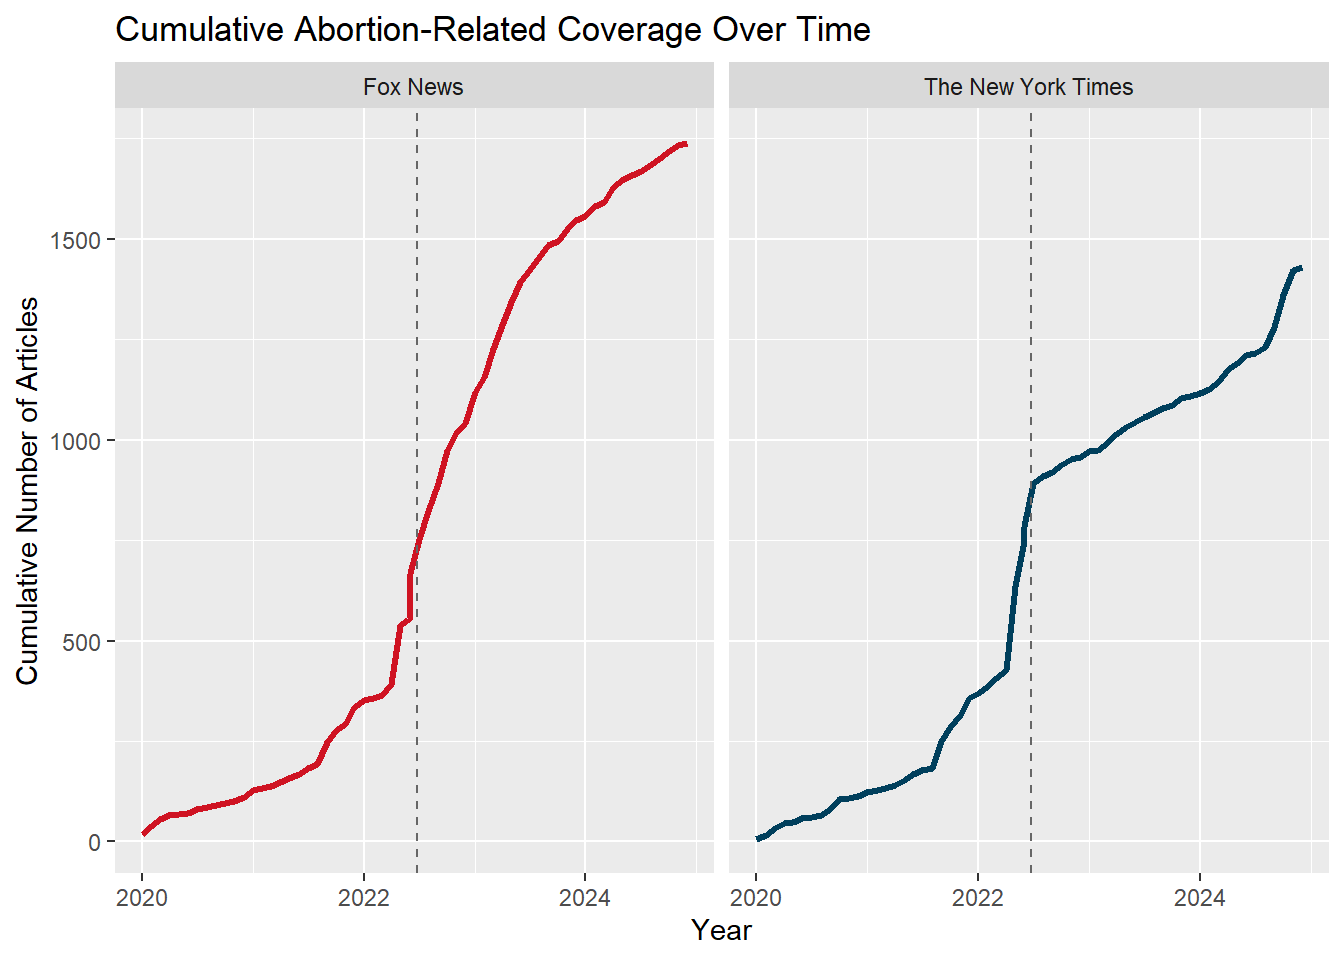
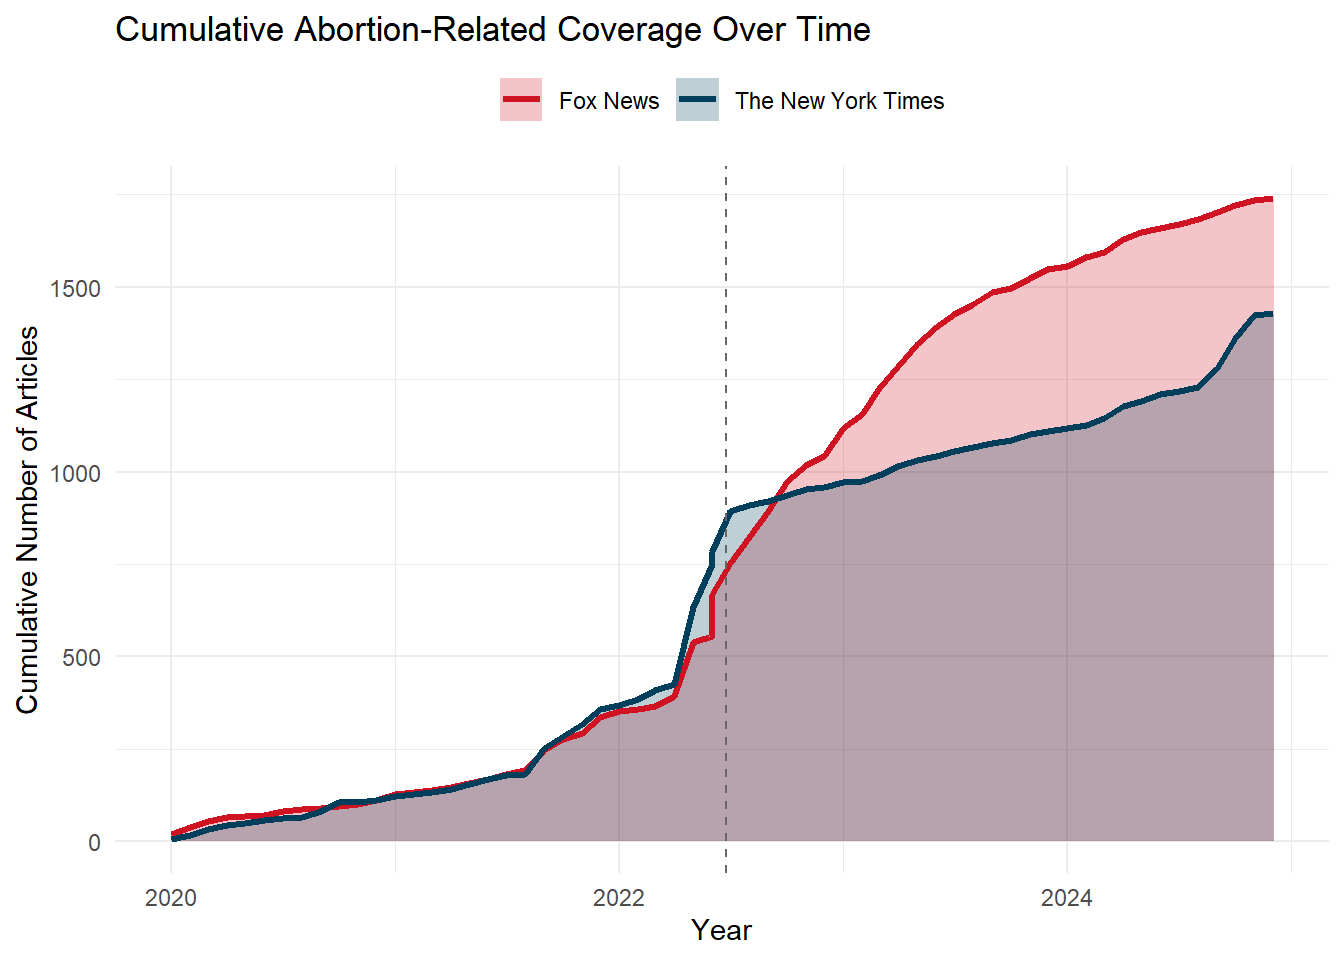
update graph colors + add few narratives

diff --git a/docs/quarto/index.html b/docs/quarto/index.html
@@ -124,7 +124,11 @@ ul.task-list li input[type="checkbox"] {
   <ul>
   <li><a href="#introduction" id="toc-introduction" class="nav-link active" data-scroll-target="#introduction">Introduction</a></li>
   <li><a href="#a-first-look-at-the-coverage" id="toc-a-first-look-at-the-coverage" class="nav-link" data-scroll-target="#a-first-look-at-the-coverage">A First Look at the Coverage</a></li>
-  <li><a href="#a-calendar-of-changing-narratives." id="toc-a-calendar-of-changing-narratives." class="nav-link" data-scroll-target="#a-calendar-of-changing-narratives.">A Calendar of Changing Narratives.</a></li>
+  <li><a href="#a-calendar-of-changing-narratives" id="toc-a-calendar-of-changing-narratives" class="nav-link" data-scroll-target="#a-calendar-of-changing-narratives">A Calendar of Changing Narratives</a>
+  <ul class="collapse">
+  <li><a href="#fox-news" id="toc-fox-news" class="nav-link" data-scroll-target="#fox-news">Fox News</a></li>
+  <li><a href="#the-new-york-times" id="toc-the-new-york-times" class="nav-link" data-scroll-target="#the-new-york-times">The New York Times</a></li>
+  </ul></li>
   </ul>
 </nav>
     </div>
@@ -201,13 +205,12 @@ ul.task-list li input[type="checkbox"] {
 </div>
 </div>
 </section>
-<section id="a-calendar-of-changing-narratives." class="level2">
-<h2 class="anchored" data-anchor-id="a-calendar-of-changing-narratives.">A Calendar of Changing Narratives.</h2>
+<section id="a-calendar-of-changing-narratives" class="level2">
+<h2 class="anchored" data-anchor-id="a-calendar-of-changing-narratives">A Calendar of Changing Narratives</h2>
+<p>To understand how language and sentiment around abortion shifted in the media before and after the Supreme Court’s landmark decision in Dobbs v. Jackson Women’s Health Organization, we mapped article sentiment scores across the two major outlets in a calendar heatmap format spanning 2020 to 2024.</p>
+<section id="fox-news" class="level3">
+<h3 class="anchored" data-anchor-id="fox-news">Fox News</h3>
 <div class="cell">
-<div class="cell-output cell-output-stderr">
-<pre><code>Warning: Using `size` aesthetic for lines was deprecated in ggplot2 3.4.0.
-ℹ Please use `linewidth` instead.</code></pre>
-</div>
 <div class="cell-output-display">
 <div>
 <figure class="figure">
@@ -216,6 +219,9 @@ ul.task-list li input[type="checkbox"] {
 </div>
 </div>
 </div>
+</section>
+<section id="the-new-york-times" class="level3">
+<h3 class="anchored" data-anchor-id="the-new-york-times">The New York Times</h3>
 <div class="cell">
 <div class="cell-output-display">
 <div>
@@ -227,6 +233,7 @@ ul.task-list li input[type="checkbox"] {
 </div>
 
 
+</section>
 </section>
 
 </main> <!-- /main -->
